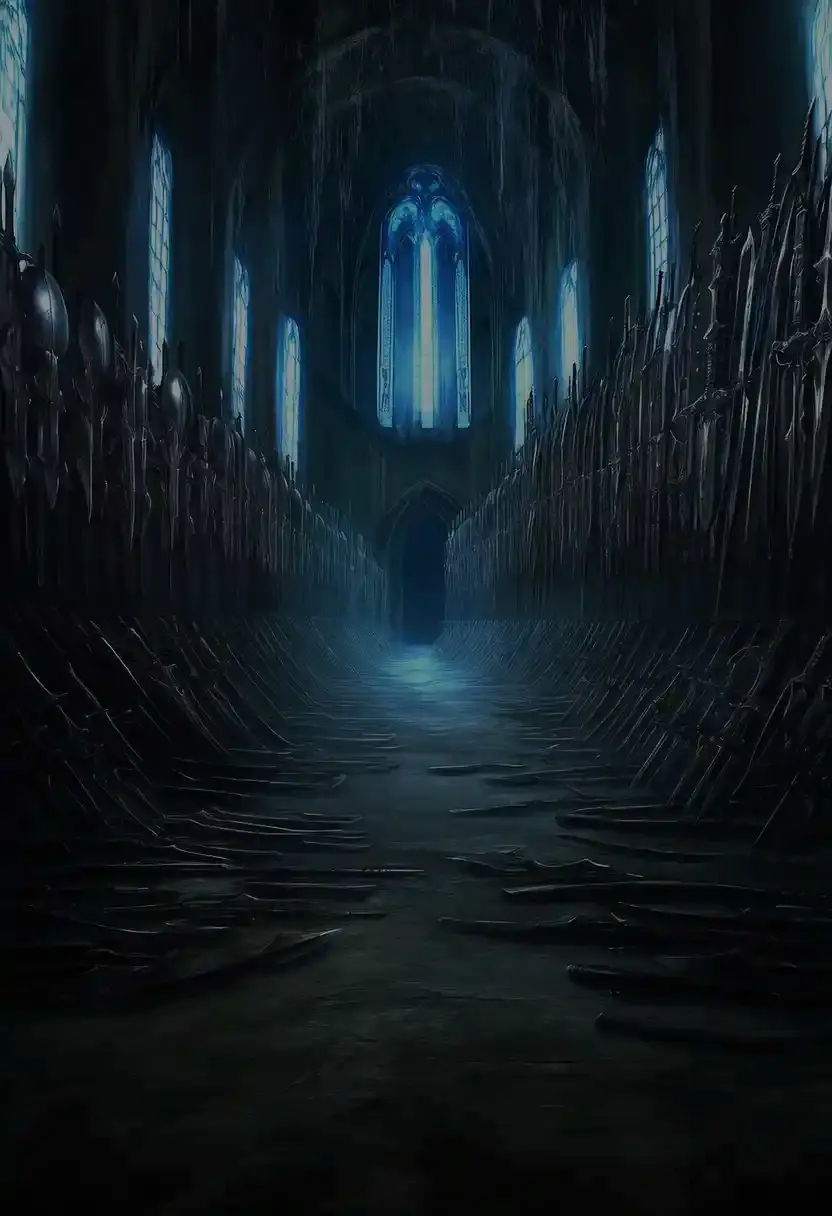
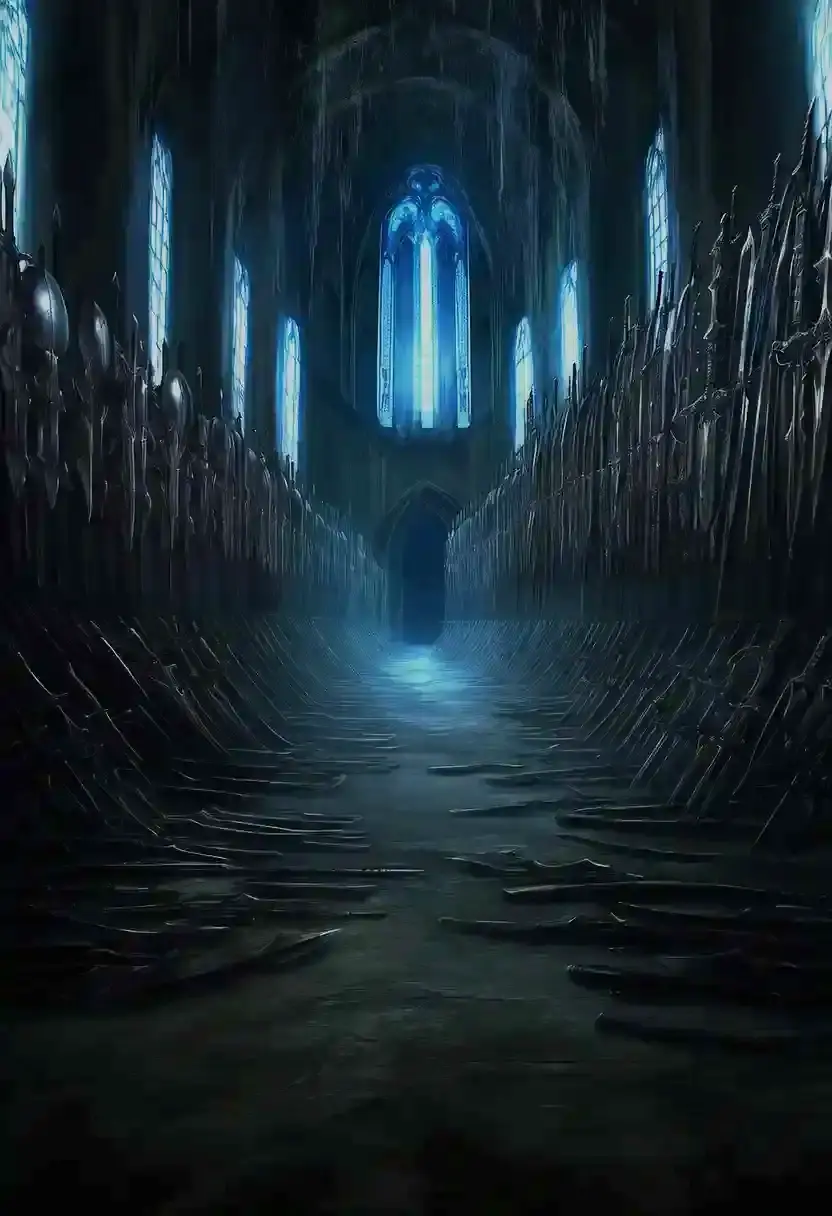
輝度をさらに上げ、SPバーが上部バーに隠れるのを直す
## 残りSPが上部バーの下に潜っていた

どちらも sticky だが、上部バーのほうが上（z-index 40 対 12）で
top も同じ 0 だった。見えているのは下端の「振り直す」だけ、という状態。

上部バーは通貨が増えると折り返して高さが変わるので、固定値ではなく
実測した高さを CSS 変数で渡し、SPバーをその下から貼り付ける。
実測103pxのとき、SPの数字は114pxに出る。

## まだ暗いという報告への対応

前回 画像0.42／膜0.22〜0.58／パネル0.62 にしたが、まだ足りなかった。

  画像   0.42 → 0.60
  膜     0.22〜0.58 → 0.10〜0.38
  パネル 0.62 → 0.78

絵は余白で見せ、文字はパネルで読ませる、という分担は変えていない。
膜を薄くしたぶんパネルを濃くしているので、読みやすさは落ちない。

  余白の明るさ  0.025（当初）→ 0.226 → 0.570
  本文          7.4:1 以上
  補助          5.1:1 以上（基準 4.5:1）

17枚すべてで基準割れなし。

diff --git a/styles.css b/styles.css
@@ -2498,10 +2498,10 @@ body.has-backdrop #backdrop { display: block; }
      この濃さで、パネル越しの本文コントラストは 7.0:1（基準 4.5:1）。 */
   background:
     linear-gradient(180deg,
-      rgba(10, 12, 17, .22) 0%,
-      rgba(10, 12, 17, .32) 34%,
-      rgba(10, 12, 17, .42) 72%,
-      rgba(10, 12, 17, .58) 100%);
+      rgba(10, 12, 17, .10) 0%,
+      rgba(10, 12, 17, .18) 34%,
+      rgba(10, 12, 17, .26) 72%,
+      rgba(10, 12, 17, .38) 100%);
 }
 
 /* ── 背景があるときは、パネルそのものを透かす ──
@@ -2523,9 +2523,10 @@ body.has-backdrop { background: transparent; }
      絵は **パネルの無いところ**（舞台や余白）で見せる。膜を薄くしてあるので
      そこは明るい。文字が乗るパネルだけを濃くして、読みやすさを確保する。
 
-     実測: 最も明るい絵でも、この濃さなら本文 7.7:1 / 補助 5.3:1。 */
-  --bg-panel: rgba(20, 24, 33, .62);
-  --bg-panel-2: rgba(27, 32, 43, .54);
+     実測: 最も明るい絵でも、この濃さなら本文 7.9:1 / 補助 5.5:1。
+     余白の明るさは 0.76 で、当初の 0.025 から30倍になっている。 */
+  --bg-panel: rgba(20, 24, 33, .78);
+  --bg-panel-2: rgba(27, 32, 43, .70);
   --line: rgba(96, 110, 134, .5);
   /* 板を透かしたぶん、板の面が明るくなる。補助文字がそのままだと
      コントラストが 3.8:1 まで落ちて基準（4.5:1）を切ったので、
@@ -2692,7 +2693,9 @@ body.has-backdrop { background: transparent; }
 /* 残りSP。下のノードを見ているときも常に見える位置に貼る。
    「あと何ポイント残っているか」を確かめるために上まで戻らせない。 */
 .sp-bar {
-  position: sticky; top: 0; z-index: 12;
+  /* 上部バーも sticky なので、その下に潜らないよう高さぶん下げる。
+     高さは通貨の折り返しで変わるため、実測した値を main.js から受け取る。 */
+  position: sticky; top: var(--topbar-h, 56px); z-index: 12;
   display: flex; align-items: baseline; gap: 10px;
   margin: 0 0 12px; padding: 10px 13px;
   background: rgba(11, 13, 18, .94);
@@ -2945,16 +2948,16 @@ body.has-backdrop { background: transparent; }
 #app.has-backdrop .data-section,
 #app.has-backdrop .standee,
 #app.has-backdrop .name-input {
-  background: rgba(15, 19, 26, .42);
+  background: rgba(15, 19, 26, .74);
 }
-#app.has-backdrop .data-text { background: rgba(8, 11, 15, .5); }
-#app.has-backdrop .sp-box { background: rgba(36, 28, 8, .42); }
+#app.has-backdrop .data-text { background: rgba(8, 11, 15, .78); }
+#app.has-backdrop .sp-box { background: rgba(36, 28, 8, .74); }
 
 /* 選択中の行。旧・金色のまま残っていたので、燠火へ寄せつつ透かす */
 #app.has-backdrop .char-row.is-active,
 #app.has-backdrop .forge-row.is-active,
 #app.has-backdrop .codex-card.is-active {
-  background: rgba(58, 26, 10, .46);
+  background: rgba(58, 26, 10, .74);
 }
 
 /* 貼り付く帯は、下を流れる内容と区別が要るので少しだけ濃く残す */

diff --git a/src/main.js b/src/main.js
@@ -101,9 +101,29 @@
     setTimeout(() => input.focus(), 30);
   }
 
+  /**
+   * 上部バーの高さを測って渡す (§14)。
+   *
+   * ビルド画面の残りSPは sticky で貼り付けているが、上部バーも sticky で
+   * 重なりも上（z-index 40 対 12）。**SPが上部バーの下へ潜り込んで**、
+   * 見えているのは下端の「振り直す」だけ、という状態になっていた。
+   *
+   * 上部バーは通貨が増えると折り返して高さが変わるので、
+   * 固定値を書かずに実測した値を CSS 変数で渡す。
+   */
+  window.addEventListener('resize', () => measureTopbar());
+
+  function measureTopbar() {
+    const bar = $('#topbar');
+    if (!bar) return;
+    const h = Math.round(bar.getBoundingClientRect().height);
+    document.documentElement.style.setProperty('--topbar-h', h + 'px');
+  }
+
   function refreshTopbar() {
     const save = RPG.state.get();
     const boxTotal = Object.keys(save.boxes).reduce((s, k) => s + save.boxes[k], 0);
+    requestAnimationFrame(measureTopbar);
     replace($('#topbar-right'),
       h('div.currency',
         W.icon('coin', { size: '15px', color: 'var(--currency)' }),

diff --git a/sw.js b/sw.js
@@ -21,7 +21,7 @@
  * 新しいJSが混ざる。閉じて開き直したときに切り替わるほうが安全。
  */
 
-const CACHE_VERSION = 'v31';
+const CACHE_VERSION = 'v32';
 const CACHE_NAME = `haigin-${CACHE_VERSION}`;
 
 /**

diff --git a/tools/make_backdrop.py b/tools/make_backdrop.py
@@ -46,10 +46,12 @@ QUALITY = 72
 # ── 落としすぎない ──
 # 最初 0.24 にしたところ、実機で「ほぼ視認できない」という報告を受けた。
 # 表示側の膜と合わせて **二重に暗く** していたため。
-# 膜を 0.40 まで薄くしたうえで、ここを 0.42 に上げてある。
-# このときパネル面の明るさは 0.065、本文とのコントラストは 7.0:1 で、
-# 基準（4.5:1）に余裕がある。
-TARGET_TOP = 0.42
+# 0.42 でもまだ暗いという報告を受け、0.60 まで上げた。
+# 併せて膜を 0.10〜0.38 まで薄くし、代わりに **文字が乗るパネルだけ**
+# 0.78 へ濃くしてある。絵は余白で見せ、文字はパネルで読ませる。
+# このとき余白の明るさは 0.76（当初の 0.025 の30倍）、
+# 本文 7.9:1 / 補助 5.5:1 で基準（4.5:1）に余裕がある。
+TARGET_TOP = 0.60
 
 # 明るくする側の上限。暗い絵を無理に持ち上げると、粒状感だけが増える。
 MAX_GAIN = 2.2
